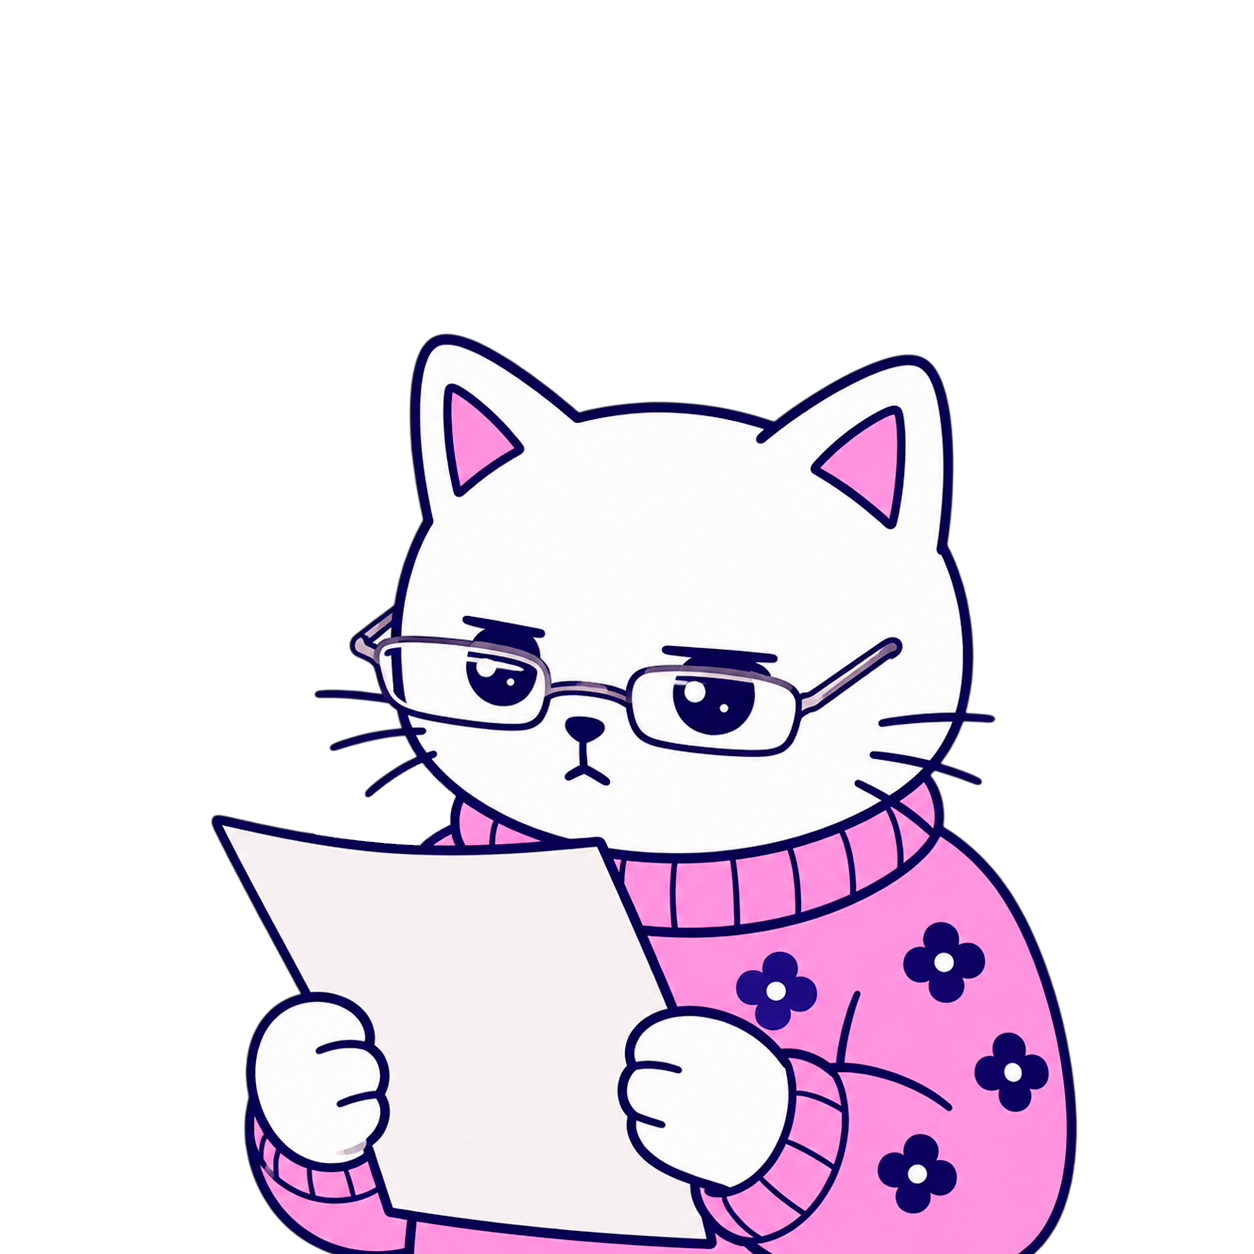
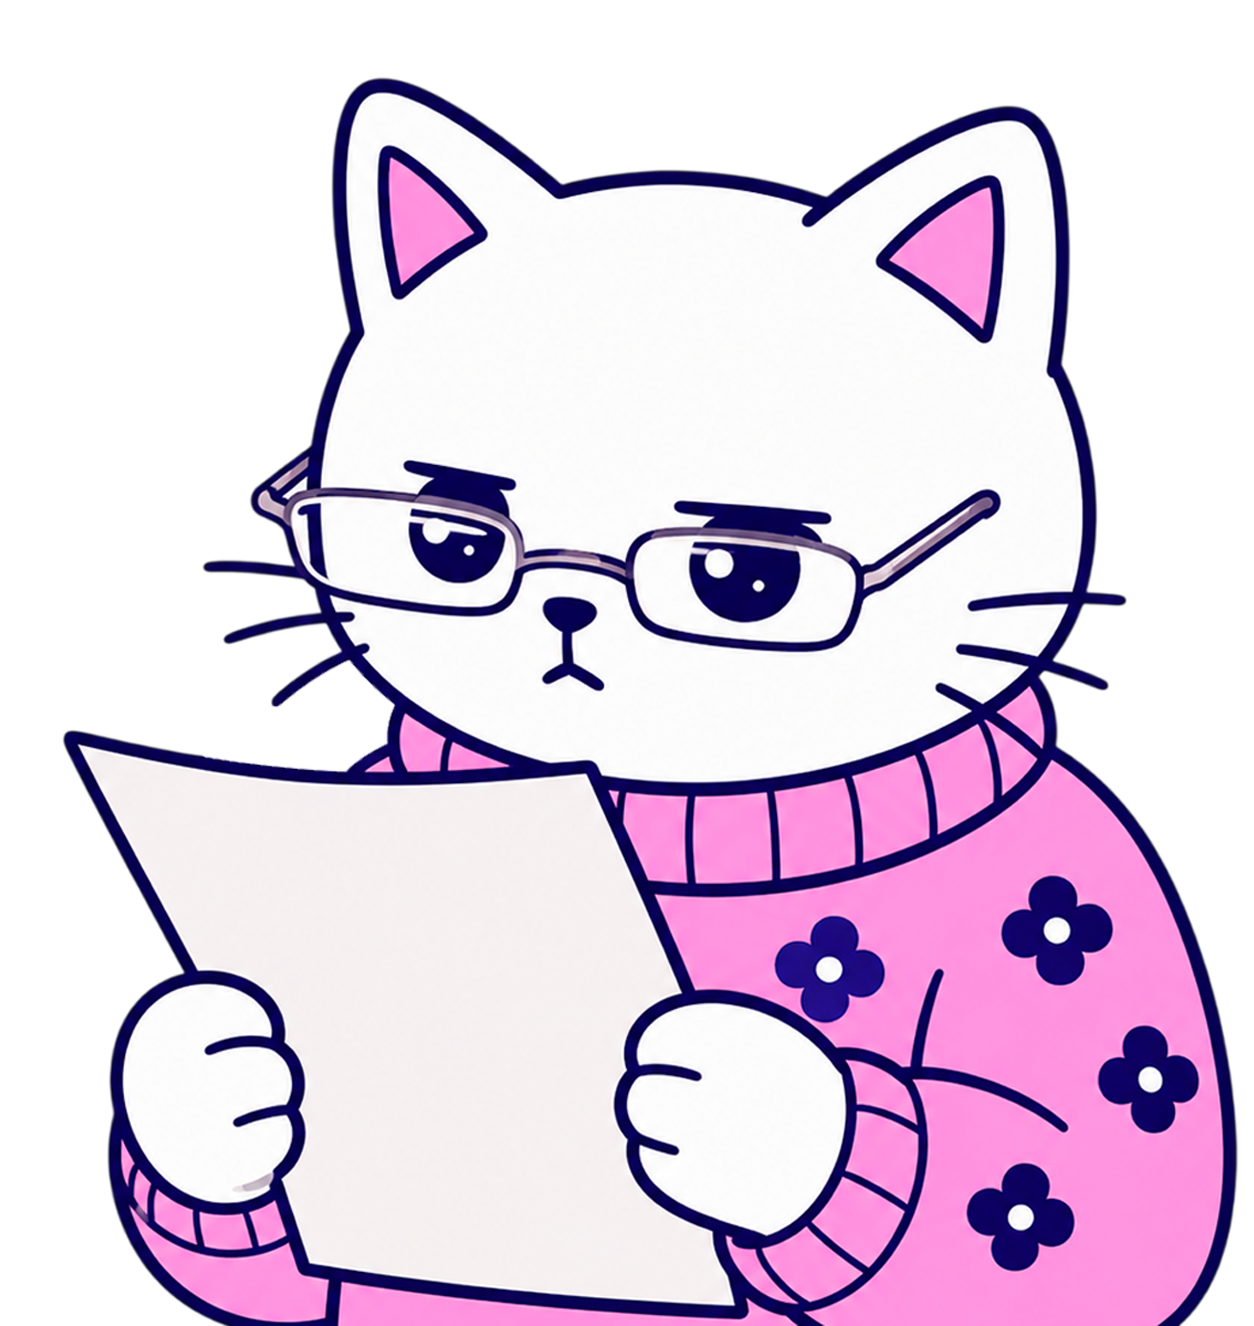
kotiks fix

Changed region(s): [[0.0311, 0.0622, 0.9952, 1.0]]

diff --git a/src/index.css b/src/index.css
@@ -64,8 +64,13 @@ button {
     @apply rounded-[26px] border border-brand-100 bg-white p-4 shadow-card sm:p-5;
   }
 
+  .calculator-panel,
   .results-panel {
     @apply flex flex-col;
+  }
+
+  .calculator-panel-body {
+    @apply flex min-h-0 flex-1 flex-col gap-4;
   }
 
   .icon-tile {
@@ -254,7 +259,8 @@ button {
   }
 
   .cat-sticker-wrap {
-    @apply relative -mb-10 mt-1 flex items-end overflow-visible px-0 pt-0;
+    @apply relative mt-auto flex shrink-0 items-end justify-center overflow-hidden px-0 pt-0;
+    margin-bottom: -1rem;
   }
 
   .cat-sticker-wrap.left {
@@ -262,11 +268,11 @@ button {
   }
 
   .cat-sticker-wrap.right {
-    @apply mt-auto justify-center;
+    @apply justify-center;
   }
 
   .cat-sticker {
-    @apply relative z-10 h-[154px] translate-y-5 object-contain;
+    @apply relative z-10 h-[154px] object-contain;
   }
 
   .cat-sticker.left {
@@ -617,20 +623,25 @@ button {
   }
 
   .cat-sticker-wrap {
-    margin-bottom: -2rem;
+    margin-bottom: -1rem;
   }
 
   .cat-sticker {
     height: 122px;
-    transform: translateY(1rem);
+    transform: none;
   }
 
   .cat-sticker.right {
     max-width: 46%;
+    transform: none;
   }
 }
 
 @media (min-width: 640px) {
+  .cat-sticker-wrap {
+    margin-bottom: -1.25rem;
+  }
+
   .price-row {
     grid-template-columns: 136px minmax(0, 1fr) 70px;
   }

diff --git a/src/App.tsx b/src/App.tsx
@@ -431,10 +431,10 @@ function CalculatorPanel({
   takeProfit: string;
 }) {
   return (
-    <article className="panel-card">
+    <article className="panel-card calculator-panel">
       <PanelHeading icon={<SlidersHorizontal size={19} />} title="Параметры сделки" />
 
-      <div className="space-y-4">
+      <div className="calculator-panel-body">
         <FieldRow icon={<Wallet size={18} />} label="Ваш депозит">
           <AmountInput
             min={0}
